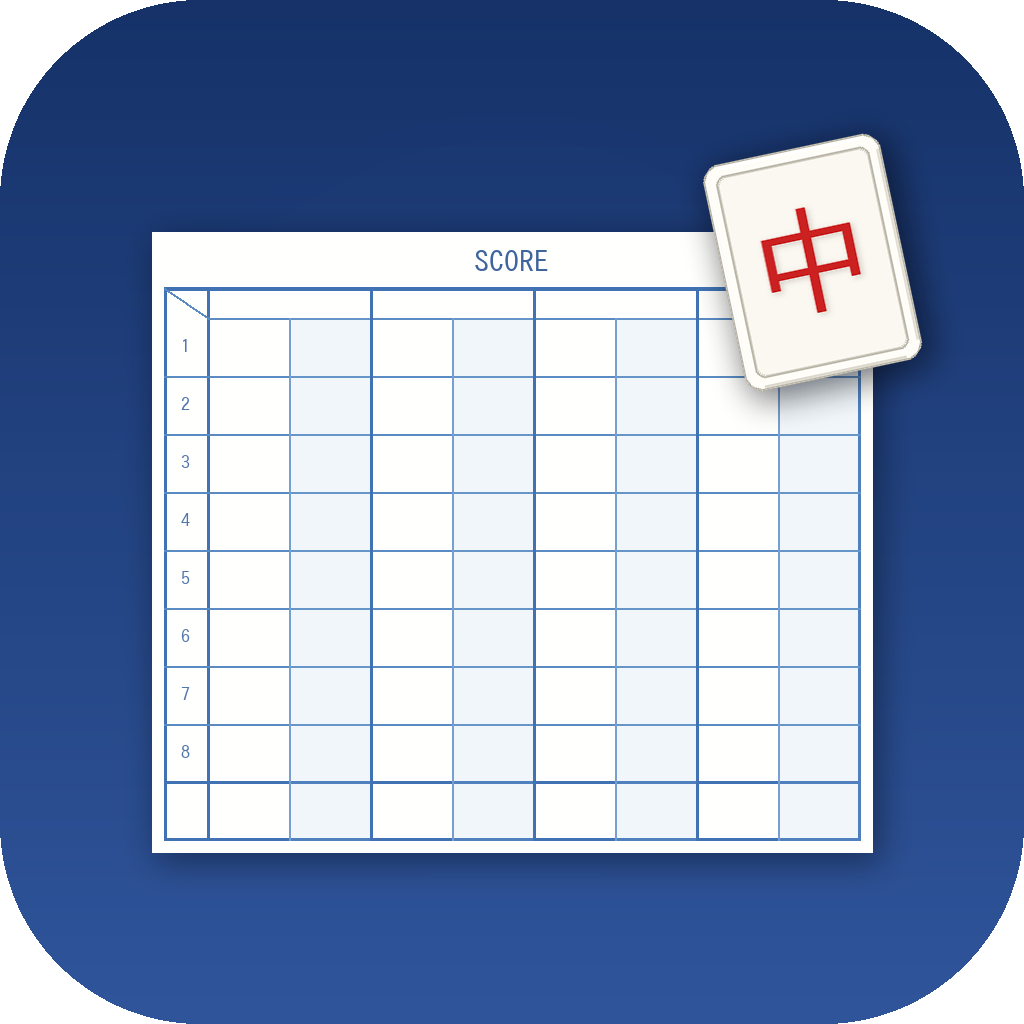
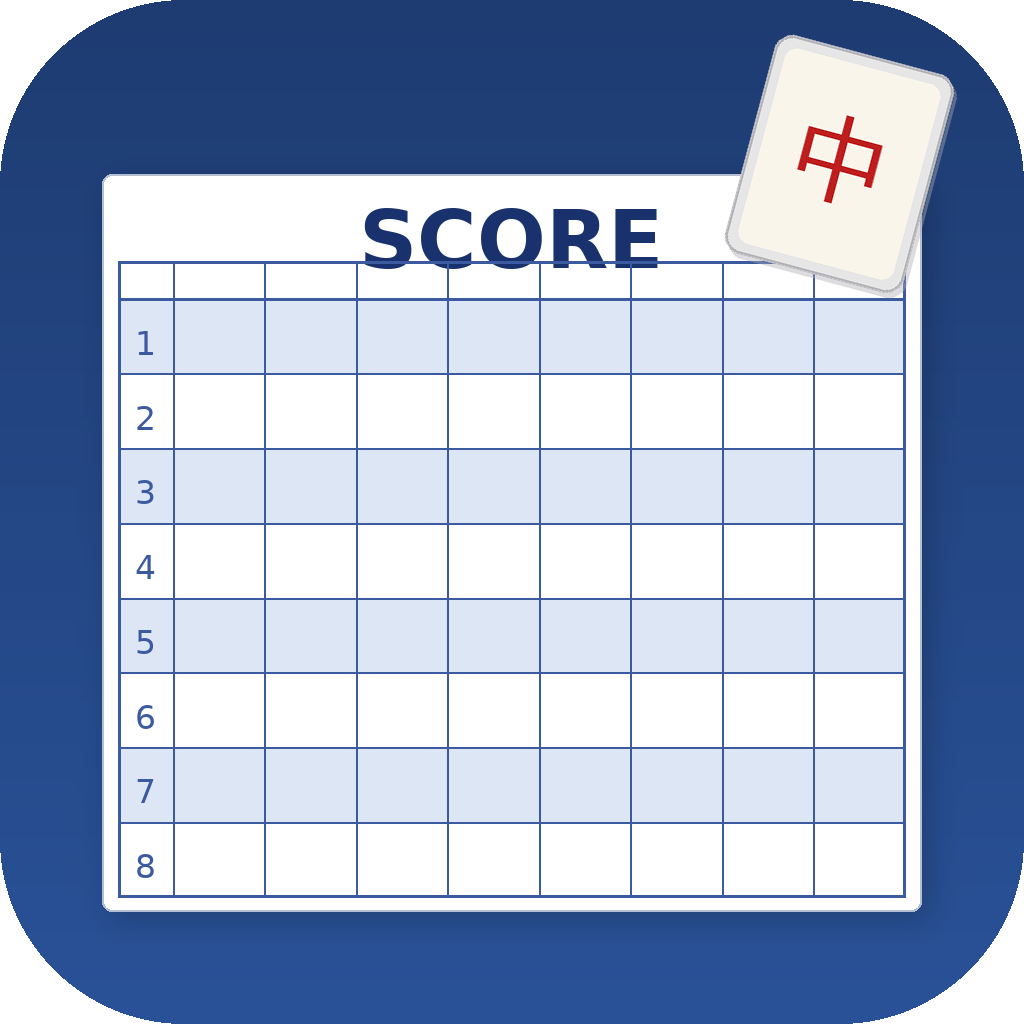
SCOREの文字を大きく強調し、全アセットのデザインを統一
- icon.png: SCORE文字を大きく太いボールドに変更
- adaptive-icon.png: 牌のみ→スコアシート+牌デザインに統一
- splash.png: 牌のみ→スコアシート+牌+アプリ名デザインに統一
- favicon.png: icon.pngの縮小版に統一
- generate_assets.py: アセット生成スクリプトを追加

https://claude.ai/code/session_01Q6nhLi3LEqTLgYHiVa6uSf

diff --git a/generate_assets.py b/generate_assets.py
@@ -1,0 +1,399 @@
+#!/usr/bin/env python3
+"""Generate app assets for Mahjong Score Table app."""
+
+from PIL import Image, ImageDraw, ImageFont, ImageFilter
+import math
+
+# Colors
+BG_DARK = (30, 60, 114)       # #1e3c72
+BG_MED = (42, 82, 152)        # #2a5298
+WHITE = (255, 255, 255)
+SHEET_WHITE = (255, 255, 255)
+GRID_BLUE = (60, 90, 160)
+GRID_LIGHT = (220, 230, 245)  # alternating row bg
+TILE_BG = (250, 245, 235)
+TILE_BORDER = (200, 200, 200)
+TILE_SHADOW = (150, 150, 160, 80)
+RED = (190, 30, 30)
+SCORE_TEXT_COLOR = (25, 50, 110)
+
+# Fonts
+FONT_BOLD = "/usr/share/fonts/truetype/dejavu/DejaVuSans-Bold.ttf"
+FONT_REGULAR = "/usr/share/fonts/truetype/dejavu/DejaVuSans.ttf"
+FONT_JP = "/usr/share/fonts/opentype/ipafont-gothic/ipag.ttf"
+
+
+def rounded_rectangle(draw, xy, radius, fill=None, outline=None, width=1):
+    """Draw a rounded rectangle."""
+    x1, y1, x2, y2 = xy
+    draw.rounded_rectangle(xy, radius=radius, fill=fill, outline=outline, width=width)
+
+
+def draw_shadow(img, xy, radius, shadow_offset=6, shadow_blur=12):
+    """Draw a drop shadow."""
+    shadow = Image.new('RGBA', img.size, (0, 0, 0, 0))
+    sd = ImageDraw.Draw(shadow)
+    x1, y1, x2, y2 = xy
+    sd.rounded_rectangle(
+        (x1 + shadow_offset, y1 + shadow_offset, x2 + shadow_offset, y2 + shadow_offset),
+        radius=radius, fill=(0, 0, 0, 60)
+    )
+    shadow = shadow.filter(ImageFilter.GaussianBlur(shadow_blur))
+    img.paste(Image.alpha_composite(Image.new('RGBA', img.size, (0, 0, 0, 0)), shadow), (0, 0))
+    return img
+
+
+def draw_gradient_bg(img, color1, color2):
+    """Draw a radial-ish gradient background."""
+    draw = ImageDraw.Draw(img)
+    w, h = img.size
+    for y in range(h):
+        ratio = y / h
+        r = int(color1[0] + (color2[0] - color1[0]) * ratio)
+        g = int(color1[1] + (color2[1] - color1[1]) * ratio)
+        b = int(color1[2] + (color2[2] - color1[2]) * ratio)
+        draw.line([(0, y), (w, y)], fill=(r, g, b))
+
+
+def draw_mahjong_tile(img, cx, cy, tile_w, tile_h, rotation=15):
+    """Draw a mahjong tile with 中 character at specified center position."""
+    # Create tile on a larger transparent canvas for rotation
+    pad = int(max(tile_w, tile_h) * 0.8)
+    tile_img = Image.new('RGBA', (tile_w + pad * 2, tile_h + pad * 2), (0, 0, 0, 0))
+    td = ImageDraw.Draw(tile_img)
+
+    tx, ty = pad, pad
+
+    # Shadow
+    td.rounded_rectangle(
+        (tx + 4, ty + 4, tx + tile_w + 4, ty + tile_h + 4),
+        radius=int(tile_w * 0.1), fill=(100, 100, 110, 70)
+    )
+
+    # Tile outer border
+    td.rounded_rectangle(
+        (tx, ty, tx + tile_w, ty + tile_h),
+        radius=int(tile_w * 0.1), fill=(230, 230, 230), outline=(180, 180, 185), width=3
+    )
+
+    # Tile inner face
+    inner_margin = int(tile_w * 0.07)
+    td.rounded_rectangle(
+        (tx + inner_margin, ty + inner_margin, tx + tile_w - inner_margin, ty + tile_h - inner_margin),
+        radius=int(tile_w * 0.07), fill=TILE_BG
+    )
+
+    # Draw 中 character
+    chung_size = int(tile_h * 0.45)
+    try:
+        chung_font = ImageFont.truetype(FONT_JP, chung_size)
+    except:
+        chung_font = ImageFont.truetype(FONT_BOLD, chung_size)
+
+    char = "中"
+    bbox = td.textbbox((0, 0), char, font=chung_font)
+    cw = bbox[2] - bbox[0]
+    ch = bbox[3] - bbox[1]
+    char_x = tx + (tile_w - cw) // 2
+    char_y = ty + (tile_h - ch) // 2 - int(tile_h * 0.05)
+    td.text((char_x, char_y), char, fill=RED, font=chung_font)
+
+    # Rotate
+    if rotation != 0:
+        tile_img = tile_img.rotate(-rotation, resample=Image.BICUBIC, expand=False)
+
+    # Paste onto main image
+    paste_x = cx - tile_img.width // 2
+    paste_y = cy - tile_img.height // 2
+    img.paste(tile_img, (paste_x, paste_y), tile_img)
+
+    return img
+
+
+def draw_score_sheet(img, sheet_x, sheet_y, sheet_w, sheet_h, num_rows=8, num_cols=8, score_font_size=None):
+    """Draw the score sheet with grid and SCORE text."""
+    draw = ImageDraw.Draw(img)
+
+    # Sheet shadow
+    shadow_layer = Image.new('RGBA', img.size, (0, 0, 0, 0))
+    sd = ImageDraw.Draw(shadow_layer)
+    sd.rounded_rectangle(
+        (sheet_x + 8, sheet_y + 8, sheet_x + sheet_w + 8, sheet_y + sheet_h + 8),
+        radius=12, fill=(0, 0, 0, 50)
+    )
+    shadow_layer = shadow_layer.filter(ImageFilter.GaussianBlur(15))
+    img = Image.alpha_composite(img, shadow_layer)
+    draw = ImageDraw.Draw(img)
+
+    # Sheet background
+    draw.rounded_rectangle(
+        (sheet_x, sheet_y, sheet_x + sheet_w, sheet_y + sheet_h),
+        radius=10, fill=WHITE, outline=(180, 190, 210), width=2
+    )
+
+    # SCORE title
+    if score_font_size is None:
+        score_font_size = int(sheet_h * 0.085)
+    score_font = ImageFont.truetype(FONT_BOLD, score_font_size)
+
+    score_text = "SCORE"
+    bbox = draw.textbbox((0, 0), score_text, font=score_font)
+    text_w = bbox[2] - bbox[0]
+    text_h = bbox[3] - bbox[1]
+
+    # Title area
+    title_h = int(sheet_h * 0.10)
+    title_y = sheet_y + int(title_h * 0.25)
+
+    # Draw SCORE text centered
+    text_x = sheet_x + (sheet_w - text_w) // 2
+    draw.text((text_x, title_y), score_text, fill=SCORE_TEXT_COLOR, font=score_font)
+
+    # Grid area
+    grid_top = sheet_y + title_h + int(sheet_h * 0.02)
+    grid_bottom = sheet_y + sheet_h - int(sheet_h * 0.02)
+    grid_left = sheet_x + int(sheet_w * 0.02)
+    grid_right = sheet_x + sheet_w - int(sheet_w * 0.02)
+
+    grid_h = grid_bottom - grid_top
+    grid_w = grid_right - grid_left
+
+    # Number column width
+    num_col_w = int(grid_w * 0.07)
+
+    # Header row height
+    header_h = int(grid_h * 0.06)
+
+    # Data area
+    data_left = grid_left + num_col_w
+    data_top = grid_top + header_h
+    data_w = grid_right - data_left
+    data_h = grid_bottom - data_top
+
+    col_w = data_w / num_cols
+    row_h = data_h / num_rows
+
+    # Draw alternating row backgrounds
+    for i in range(num_rows):
+        ry = data_top + i * row_h
+        if i % 2 == 0:
+            draw.rectangle(
+                (grid_left, ry, grid_right, ry + row_h),
+                fill=GRID_LIGHT
+            )
+
+    # Draw grid lines
+    line_color = GRID_BLUE
+    line_w = max(2, int(sheet_w * 0.003))
+
+    # Outer border
+    draw.rectangle(
+        (grid_left, grid_top, grid_right, grid_bottom),
+        outline=line_color, width=line_w + 1
+    )
+
+    # Header line
+    draw.line(
+        [(grid_left, data_top), (grid_right, data_top)],
+        fill=line_color, width=line_w + 1
+    )
+
+    # Number column line
+    draw.line(
+        [(data_left, grid_top), (data_left, grid_bottom)],
+        fill=line_color, width=line_w
+    )
+
+    # Horizontal lines
+    for i in range(1, num_rows):
+        y = data_top + i * row_h
+        draw.line([(grid_left, y), (grid_right, y)], fill=line_color, width=line_w)
+
+    # Vertical lines
+    for i in range(1, num_cols):
+        x = data_left + i * col_w
+        draw.line([(x, grid_top), (x, grid_bottom)], fill=line_color, width=line_w)
+
+    # Row numbers
+    num_font_size = int(row_h * 0.45)
+    num_font = ImageFont.truetype(FONT_REGULAR, num_font_size)
+    for i in range(num_rows):
+        num = str(i + 1)
+        bbox = draw.textbbox((0, 0), num, font=num_font)
+        nw = bbox[2] - bbox[0]
+        nh = bbox[3] - bbox[1]
+        nx = grid_left + (num_col_w - nw) // 2
+        ny = data_top + i * row_h + (row_h - nh) // 2
+        draw.text((nx, ny), num, fill=GRID_BLUE, font=num_font)
+
+    return img
+
+
+def generate_icon(output_path, size=1024):
+    """Generate the main app icon."""
+    img = Image.new('RGBA', (size, size), (0, 0, 0, 0))
+
+    # Draw rounded square background with gradient
+    bg = Image.new('RGBA', (size, size), (0, 0, 0, 0))
+    draw_gradient_bg(bg, BG_DARK, BG_MED)
+
+    # Create mask for rounded corners
+    mask = Image.new('L', (size, size), 0)
+    md = ImageDraw.Draw(mask)
+    corner_radius = int(size * 0.18)
+    md.rounded_rectangle((0, 0, size - 1, size - 1), radius=corner_radius, fill=255)
+
+    img.paste(bg, (0, 0), mask)
+
+    # Draw score sheet
+    margin = int(size * 0.10)
+    sheet_x = margin
+    sheet_y = int(size * 0.17)
+    sheet_w = int(size * 0.80)
+    sheet_h = int(size * 0.72)
+
+    # Use large bold SCORE text
+    score_font_size = int(sheet_h * 0.11)
+    img = draw_score_sheet(img, sheet_x, sheet_y, sheet_w, sheet_h, score_font_size=score_font_size)
+
+    # Draw mahjong tile in upper right
+    tile_w = int(size * 0.18)
+    tile_h = int(size * 0.22)
+    tile_cx = int(size * 0.82)
+    tile_cy = int(size * 0.16)
+    img = draw_mahjong_tile(img, tile_cx, tile_cy, tile_w, tile_h, rotation=15)
+
+    img.save(output_path, 'PNG')
+    print(f"Generated: {output_path} ({size}x{size})")
+
+
+def generate_adaptive_icon(output_path, size=1024):
+    """Generate Android adaptive icon foreground - matches icon.png design."""
+    img = Image.new('RGBA', (size, size), (0, 0, 0, 0))
+
+    # Adaptive icons have a safe zone (inner 66% of the canvas = 72px of 108dp)
+    # We need to keep important content within the center ~66%
+    safe_margin = int(size * 0.17)
+
+    # Draw score sheet (smaller, centered in safe zone)
+    sheet_w = int(size * 0.56)
+    sheet_h = int(size * 0.52)
+    sheet_x = (size - sheet_w) // 2 - int(size * 0.02)
+    sheet_y = (size - sheet_h) // 2 + int(size * 0.04)
+
+    score_font_size = int(sheet_h * 0.11)
+    img = draw_score_sheet(img, sheet_x, sheet_y, sheet_w, sheet_h,
+                           num_rows=6, num_cols=6, score_font_size=score_font_size)
+
+    # Draw mahjong tile
+    tile_w = int(size * 0.14)
+    tile_h = int(size * 0.17)
+    tile_cx = sheet_x + sheet_w - int(size * 0.01)
+    tile_cy = sheet_y - int(size * 0.01)
+    img = draw_mahjong_tile(img, tile_cx, tile_cy, tile_w, tile_h, rotation=15)
+
+    img.save(output_path, 'PNG')
+    print(f"Generated: {output_path} ({size}x{size})")
+
+
+def generate_splash(output_path, width=1284, height=2778):
+    """Generate splash screen matching icon design."""
+    img = Image.new('RGBA', (width, height), (0, 0, 0, 0))
+
+    # Gradient background
+    draw_gradient_bg(img, BG_DARK, (35, 70, 130))
+
+    draw = ImageDraw.Draw(img)
+
+    # Draw score sheet centered in upper portion
+    sheet_w = int(width * 0.55)
+    sheet_h = int(sheet_w * 0.9)
+    sheet_x = (width - sheet_w) // 2
+    sheet_y = int(height * 0.25)
+
+    score_font_size = int(sheet_h * 0.11)
+    img = draw_score_sheet(img, sheet_x, sheet_y, sheet_w, sheet_h,
+                           num_rows=6, num_cols=6, score_font_size=score_font_size)
+    draw = ImageDraw.Draw(img)
+
+    # Draw mahjong tile
+    tile_w = int(width * 0.12)
+    tile_h = int(tile_w * 1.2)
+    tile_cx = sheet_x + sheet_w - int(width * 0.02)
+    tile_cy = sheet_y - int(width * 0.01)
+    img = draw_mahjong_tile(img, tile_cx, tile_cy, tile_w, tile_h, rotation=15)
+
+    # App name text below the sheet
+    text_y = sheet_y + sheet_h + int(height * 0.04)
+
+    # 麻雀
+    jp_font_large = ImageFont.truetype(FONT_JP, int(width * 0.09))
+    text = "麻雀"
+    bbox = draw.textbbox((0, 0), text, font=jp_font_large)
+    tw = bbox[2] - bbox[0]
+    draw.text(((width - tw) // 2, text_y), text, fill=WHITE, font=jp_font_large)
+
+    # スコアシートモバイル
+    text_y2 = text_y + int(width * 0.12)
+    jp_font_small = ImageFont.truetype(FONT_JP, int(width * 0.055))
+    text2 = "スコアシートモバイル"
+    bbox2 = draw.textbbox((0, 0), text2, font=jp_font_small)
+    tw2 = bbox2[2] - bbox2[0]
+    draw.text(((width - tw2) // 2, text_y2), text2, fill=(200, 210, 230), font=jp_font_small)
+
+    img.save(output_path, 'PNG')
+    print(f"Generated: {output_path} ({width}x{height})")
+
+
+def generate_favicon(output_path, size=48):
+    """Generate favicon - simplified version of icon."""
+    # Render at higher resolution then downscale for quality
+    render_size = size * 8
+    img = Image.new('RGBA', (render_size, render_size), (0, 0, 0, 0))
+
+    # Background
+    bg = Image.new('RGBA', (render_size, render_size), (0, 0, 0, 0))
+    draw_gradient_bg(bg, BG_DARK, BG_MED)
+
+    mask = Image.new('L', (render_size, render_size), 0)
+    md = ImageDraw.Draw(mask)
+    corner_radius = int(render_size * 0.18)
+    md.rounded_rectangle((0, 0, render_size - 1, render_size - 1), radius=corner_radius, fill=255)
+
+    img.paste(bg, (0, 0), mask)
+
+    # Simplified: small score sheet with SCORE + tile
+    margin = int(render_size * 0.10)
+    sheet_x = margin
+    sheet_y = int(render_size * 0.17)
+    sheet_w = int(render_size * 0.80)
+    sheet_h = int(render_size * 0.72)
+
+    score_font_size = int(sheet_h * 0.13)
+    img = draw_score_sheet(img, sheet_x, sheet_y, sheet_w, sheet_h,
+                           num_rows=5, num_cols=5, score_font_size=score_font_size)
+
+    # Tile
+    tile_w = int(render_size * 0.18)
+    tile_h = int(render_size * 0.22)
+    tile_cx = int(render_size * 0.82)
+    tile_cy = int(render_size * 0.16)
+    img = draw_mahjong_tile(img, tile_cx, tile_cy, tile_w, tile_h, rotation=15)
+
+    # Downscale with high quality
+    img = img.resize((size, size), Image.LANCZOS)
+
+    img.save(output_path, 'PNG')
+    print(f"Generated: {output_path} ({size}x{size})")
+
+
+if __name__ == '__main__':
+    import os
+    assets_dir = os.path.join(os.path.dirname(os.path.abspath(__file__)), 'assets')
+
+    generate_icon(os.path.join(assets_dir, 'icon.png'))
+    generate_adaptive_icon(os.path.join(assets_dir, 'adaptive-icon.png'))
+    generate_splash(os.path.join(assets_dir, 'splash.png'))
+    generate_favicon(os.path.join(assets_dir, 'favicon.png'))
+
+    print("\nAll assets generated successfully!")
